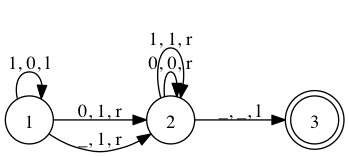
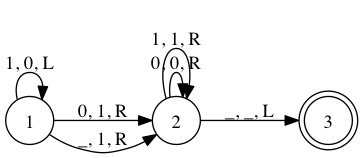
use uppercase for move direction

diff --git a/src/graphviz.php b/src/graphviz.php
@@ -23,6 +23,8 @@ EOF;
     foreach ($rules as $rule) {
         list($init_state, $read_cond, $write_val, $move_dir, $new_state) = $rule;
 
+        $move_dir = strtoupper($move_dir);
+
         $out .= "    $init_state -> $new_state [ label = \"$read_cond, $write_val, $move_dir\" ];\n";
     }
 
